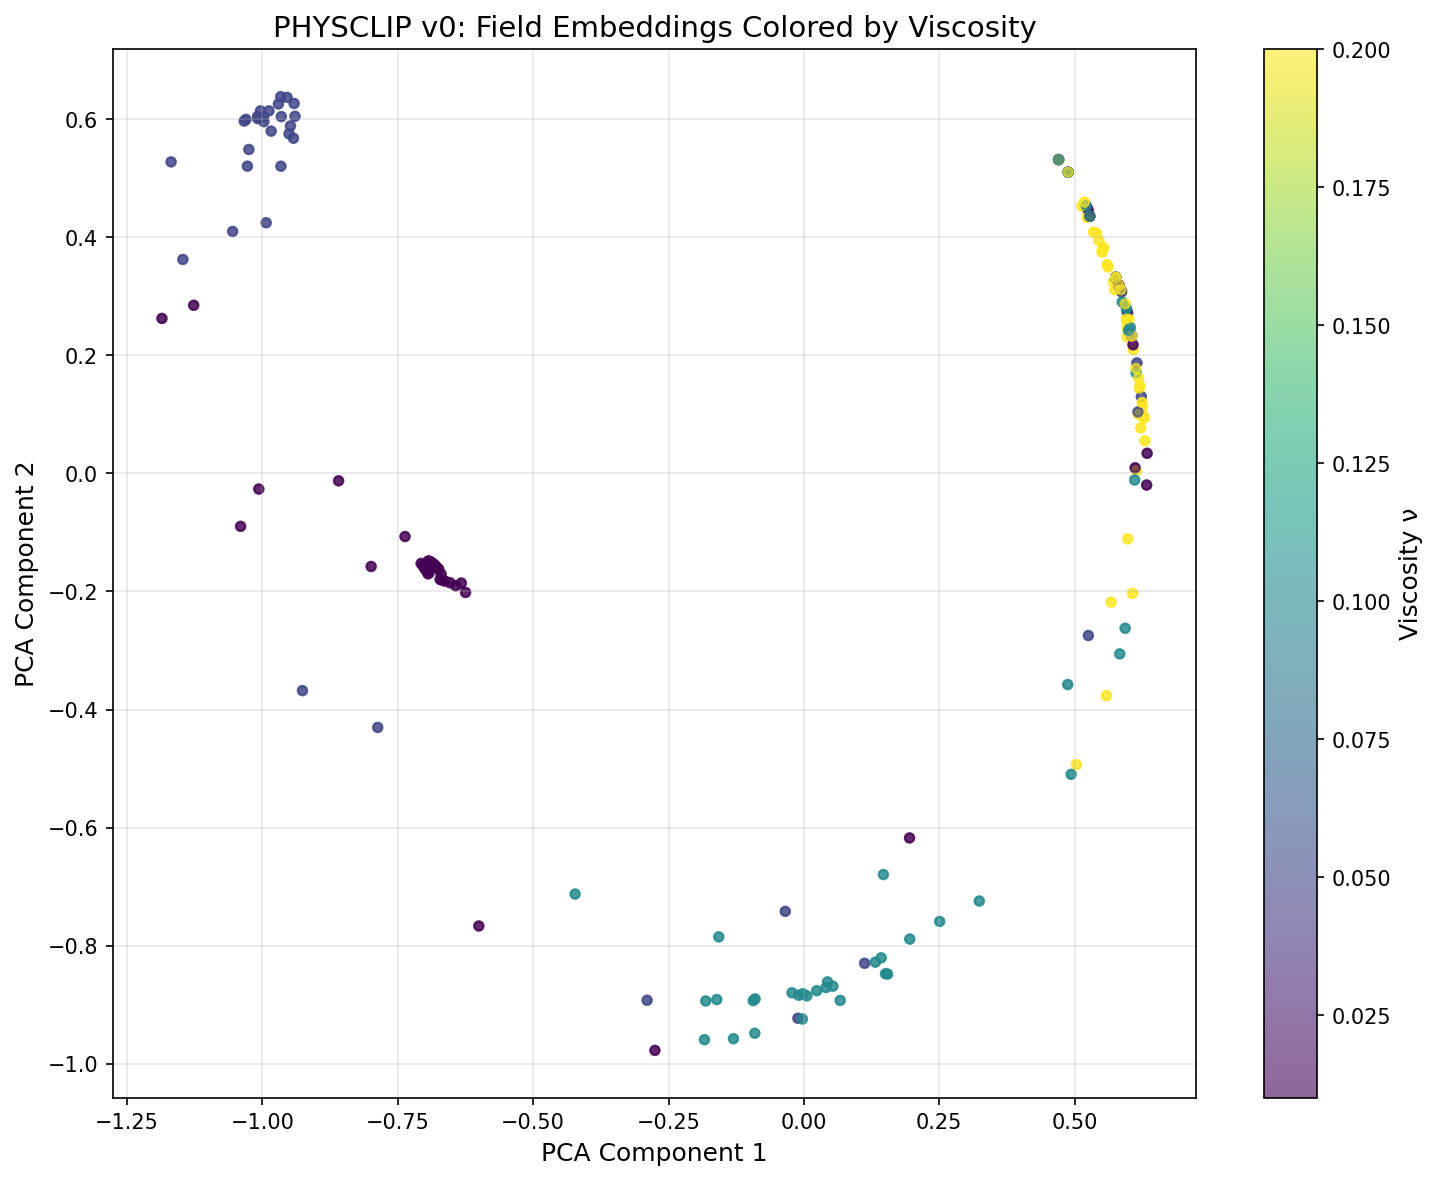
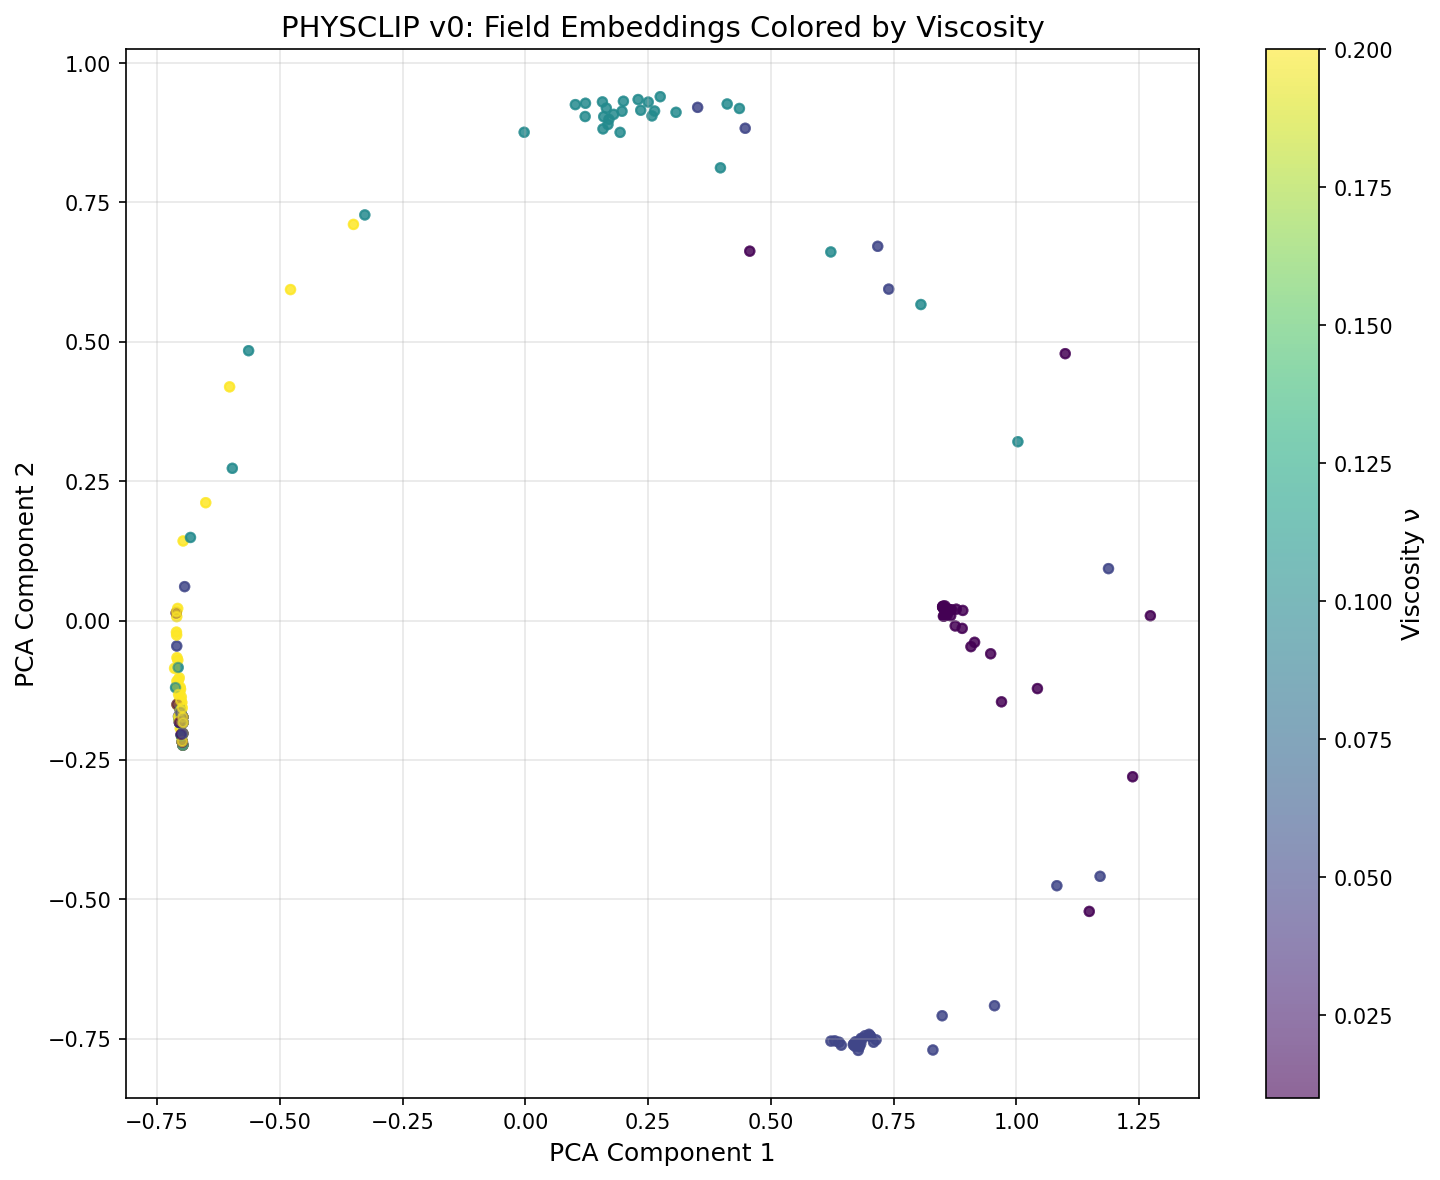
edited hyperparameters

diff --git a/train_physclip_v0.py b/train_physclip_v0.py
@@ -44,8 +44,8 @@ NORMALIZE_OUTPUT = True
 
 # Training hyperparameters
 NUM_EPOCHS = 100  # Longer training to reach convergence
-BATCH_SIZE = 16  # Smaller batch for better positive:negative ratio
-LEARNING_RATE = 1e-3  # Higher learning rate for faster convergence
+BATCH_SIZE = 8  # Smaller batch for better positive:negative ratio
+LEARNING_RATE = 2.5e-3  # Higher learning rate for faster convergence
 TEMPERATURE = 0.07  # Temperature for contrastive loss
 
 # Device
